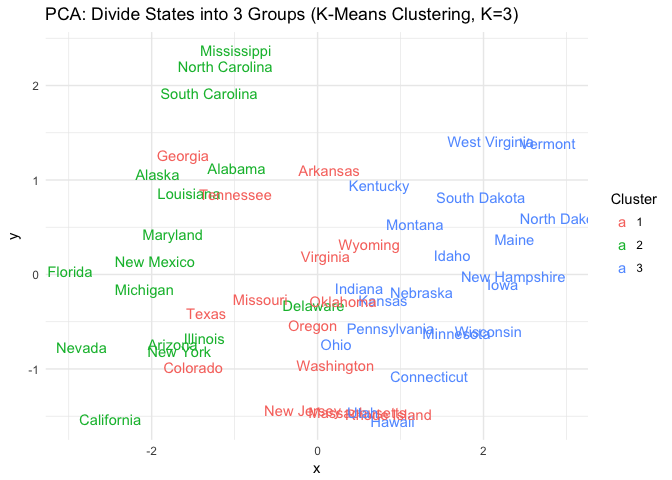
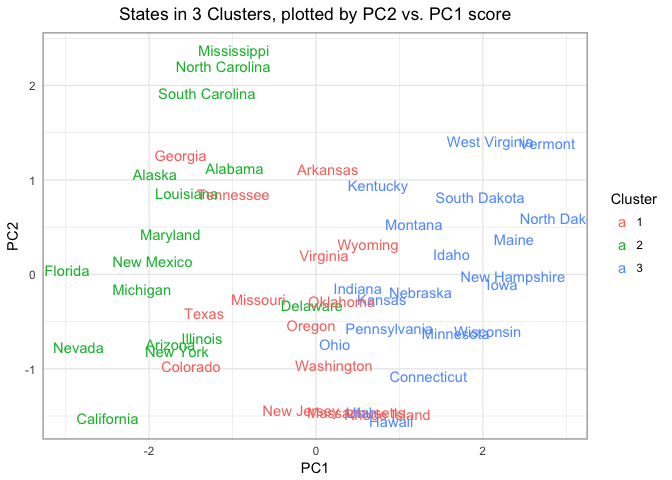
Done

diff --git a/students/Ochoa_Erin/PS9/ps9-emo.md b/students/Ochoa_Erin/PS9/ps9-emo.md
@@ -8,7 +8,7 @@ Erin M. Ochoa
     -   [Split the data into a training and test set (70/30%)](#split-the-data-into-a-training-and-test-set-7030)
     -   [Calculate the test MSE for KNN models with *K* = 5, 10, 15, …, 100, using whatever combination of variables you see fit. Which model produces the lowest test MSE?](#calculate-the-test-mse-for-knn-models-with-k-5-10-15-dots-100-using-whatever-combination-of-variables-you-see-fit.-which-model-produces-the-lowest-test-mse)
     -   [Compare the test MSE for the best KNN/wKNN model(s) to the test MSE for the equivalent linear regression, decision tree, boosting, and random forest methods using the same combination of variables as before. Which performs the best? Why do you think this method performed the best, given your knowledge of how it works?](#compare-the-test-mse-for-the-best-knnwknn-models-to-the-test-mse-for-the-equivalent-linear-regression-decision-tree-boosting-and-random-forest-methods-using-the-same-combination-of-variables-as-before.-which-performs-the-best-why-do-you-think-this-method-performed-the-best-given-your-knowledge-of-how-it-works)
--   [Voter turnout and depression \[2 points\]](#voter-turnout-and-depression-2-points)
+-   [Voter turnout and depression](#voter-turnout-and-depression)
     -   [Split the data into a training and test set (70/30).](#split-the-data-into-a-training-and-test-set-7030.)
     -   [Calculate the test error rate for KNN models with *K* = 1, 2, …, 10, using whatever combination of variables you see fit. Which model produces the lowest test MSE?](#calculate-the-test-error-rate-for-knn-models-with-k-12dots10-using-whatever-combination-of-variables-you-see-fit.-which-model-produces-the-lowest-test-mse)
     -   [Calculate the test error rate for weighted KNN models with *K* = 1, 2, …, 10 using the same combination of variables as before. Which model produces the lowest test error rate?](#calculate-the-test-error-rate-for-weighted-knn-models-with-k-12dots10-using-the-same-combination-of-variables-as-before.-which-model-produces-the-lowest-test-error-rate)
@@ -216,6 +216,8 @@ fem_w_knn = data_frame(k = seq(5, 100, by = 5),
 
 ![](ps9-emo_files/figure-markdown_github/fem_w_knn_plot-1.png)
 
+Weighted KNN produces the lowest MSE, just below 440 for 90 &lt; K &lt;= 100.
+
 #### Compare the test MSE for the best KNN/wKNN model(s) to the test MSE for the equivalent linear regression, decision tree, boosting, and random forest methods using the same combination of variables as before. Which performs the best? Why do you think this method performed the best, given your knowledge of how it works?
 
 ``` r
@@ -333,19 +335,8 @@ mse_fem_rf = mse(fem_rf, fem_test30)
 
 Boosting with a depth of 4 produces the lowest MSE (431.643). This is because this boosted model relies on trees with four splits, representing the complex relationship between the predictor variables and the outcome.
 
-Voter turnout and depression \[2 points\]
-=========================================
-
-The 1998 General Social Survey included several questions about the respondent's mental health. `mental_health.csv` reports several important variables from this survey.
-
--   `age` - age of the respondent
--   `educ` - Number of years of formal education completed by the respondent
--   `black` - 1 if the respondent is black, 0 otherwise
--   `female` - 1 if the respondent is female, 0 if male
--   `married` - 1 if the respondent is currently married, 0 otherwise
--   `inc10` - Family income, in $10,000s
-
-Estimate a series of models explaining/predicting voter turnout.
+Voter turnout and depression
+============================
 
 #### Split the data into a training and test set (70/30).
 
@@ -375,15 +366,22 @@ mh_knn = data_frame(k = 1:10,
                     mse_train = map_dbl(knn_train, ~ mean(mh_test30$vote96 != .)),
                     mse_test = map_dbl(knn_test, ~ mean(mh_test30$vote96 != .)))
 
-ggplot(mh_knn, aes(k, mse_test)) +
-  geom_line() +
+ggplot(mh_knn, aes(k, mse_test)) + 
+  geom_line(color='deeppink',size=1.5) +
+  geom_point(color='darkturquoise', size=2) +
   labs(x = "K Nearest Neighbors",
        y = "MSE",
        title = "MSE for K Nearest Neigbors",
-       subtitle = "Voting Behavior (1996) Based on Age, Income, Education, & Depression Index Score")
+       subtitle = "Voting Behavior (1996) Based on Age, Income, Education, & Depression Index Score") +
+       theme(plot.title = element_text(hjust = 0.5), plot.subtitle = element_text(hjust = 0.5),
+             panel.border = element_rect(linetype = "solid", color = "grey70", fill=NA, size=1.1)) +
+       scale_x_continuous(breaks = seq(0,10,by=2)) +
+       scale_y_continuous(breaks = seq(0,.3,by=.05))
 ```
 
 ![](ps9-emo_files/figure-markdown_github/mh_knn-1.png)
+
+The K=1 model produces the lowest MSE (0). This is because, of course, for each observation, its nearest neighbor is itself. The next lowest MSE is 0.166, for K=3.
 
 #### Calculate the test error rate for weighted KNN models with *K* = 1, 2, …, 10 using the same combination of variables as before. Which model produces the lowest test error rate?
 
@@ -399,19 +397,24 @@ mh_wknn_error = mh_wknn %>%
                 left_join(mh_knn, by = as.factor("k")) %>%
                 select(k, mse_test_wknn, mse_test) %>%
                 gather(method, mse, -k) %>%
-                mutate(method = factor(method, levels =c("mse_test_wknn","mse_test"), labels = c("Weighted KNN","KNN")))
+                mutate(Method = factor(method, levels =c("mse_test_wknn","mse_test"), labels = c("Weighted KNN","KNN")))
 
-ggplot(mh_wknn_error,aes(k, mse, color = method)) +
+ggplot(mh_wknn_error,aes(k, mse, color = Method)) +
        geom_line() +
        geom_point() +
        labs(title = "MSE for KNN and Weighted KNN",
        subtitle = "Voting Behavior (1996) Based on Age, Income, Education, & Depression Index Score",
        x = "K",
-       y = "MSE",
-       method = NULL)
+       y = "MSE") +
+       theme(plot.title = element_text(hjust = 0.5), plot.subtitle = element_text(hjust = 0.5),
+             panel.border = element_rect(linetype = "solid", color = "grey70", fill=NA, size=1.1)) +
+       scale_x_continuous(breaks = seq(0,10,by=2)) +
+       scale_y_continuous(breaks = seq(0,.3,by=.05))
 ```
 
 ![](ps9-emo_files/figure-markdown_github/mh_wknn-1.png)
+
+Again, the model with the lowest MSE is the K=1 model with an MSE of 0.0, but this is the trivial case. The useful model with the lowest MSE is the KNN model with K=3, with an MSE of 0.166
 
 #### Compare the test error rate for the best KNN/wKNN model(s) to the test error rate for the equivalent logistic regression, decision tree, boosting, random forest, and SVM methods using the same combination of variables as before. Which performs the best? Why do you think this method performed the best, given your knowledge of how it works?
 
@@ -426,6 +429,33 @@ voted_all_accuracy = mh_test30 %>%
 
 logit_mh_error = mean(voted_all_accuracy$vote96 != voted_all_accuracy$pred)
 ```
+
+``` r
+mh_tree = tree(vote96 ~ age + inc10 + educ + mhealth_sum, data = mh_train70)
+tree_data = dendro_data(mh_tree)
+
+mse_mh_tree = mse(mh_tree,mh_test30)
+```
+
+``` r
+mh_rf = randomForest(vote96 ~ age + inc10 + educ + mhealth_sum , data = mh_train70, ntree = 500)
+
+mse_mh_rf = mse(mh_rf, mh_test30)
+```
+
+``` r
+mh_svm2 = tune(svm, vote96 ~ ., data = mh_train70,
+          kernel = "linear",
+          range = list(cost = c(.001, .01, .1, 1, 5, 10, 100)))
+
+mh_lin2 = mh_svm2$best.model
+
+mse_mh_svm = mse(mh_lin2,mh_test30)
+```
+
+![](ps9-emo_files/figure-markdown_github/mh_compare_methods_plot-1.png)
+
+Again, the model with the lowest MSE is the trivial KNN model with K=1 (and an MSE of 0). This is because in the model, each observation is its own closest neighbor. The second-best model is the KNN model with K=3 and an MSE of 0.166.
 
 Colleges
 ========
@@ -519,10 +549,14 @@ arrests_PC2 = as.data.frame(arrests_pca$x)$PC2
 Cluster = as.factor(arrests_kmeans_2$cluster)
 arrests_pca_name = data.frame(x=arrests_PC1, y=arrests_PC2, name=state_name)
 ggplot(arrests_pca_name, aes(x, y, label=name, color=Cluster)) +
-       geom_text() + labs(title = "PCA: Divide States into 2 Groups (K-Means Clustering, K=2)")
+       geom_text() + labs(x="PC1", y="PC2",title = "States in 2 Clusters, plotted by PC2 vs. PC1 score") +
+       theme(plot.title = element_text(hjust = 0.5), plot.subtitle = element_text(hjust = 0.5),
+             panel.border = element_rect(linetype = "solid", color = "grey70", fill=NA, size=1.1))
 ```
 
 ![](ps9-emo_files/figure-markdown_github/arrests_kmeans_2-1.png)
+
+The clusters seem reasonable, with the exceptions of Missouri and Delaware, and perhaps Arkansas.
 
 #### Perform *K*-means clustering with *K* = 4. Plot the observations on the first and second principal components and color-code each state based on their cluster membership. Describe your results.
 
@@ -533,10 +567,14 @@ arrests_kmeans_4 = kmeans(arrests_df, 4, nstart = 20)
 Cluster = as.factor(arrests_kmeans_4$cluster)
 
 ggplot(arrests_pca_name, aes(x, y, label=name, color=Cluster)) +
-       geom_text() + labs(title = "PCA: Divide States into 4 Groups (K-Means Clustering, K=4)")
+       geom_text() + labs(x="PC1", y="PC2",title = "States in 4 Clusters, plotted by PC2 vs. PC1 score") +
+       theme(plot.title = element_text(hjust = 0.5), plot.subtitle = element_text(hjust = 0.5),
+             panel.border = element_rect(linetype = "solid", color = "grey70", fill=NA, size=1.1))
 ```
 
 ![](ps9-emo_files/figure-markdown_github/arrests_kmeans_4-1.png)
+
+These clusters are not intuititive; there is a lot of overlap between clusters 2 & 3 and clusters 2 & 4. Delaware seems misclassified, as do Georgia, Tennessee, Colorado, Texas, Hawaii, and others.
 
 #### Perform *K*-means clustering with *K* = 3. Plot the observations on the first and second principal components and color-code each state based on their cluster membership. Describe your results.
 
@@ -547,10 +585,14 @@ arrests_kmeans_3 = kmeans(arrests_df, 3, nstart = 20)
 Cluster = as.factor(arrests_kmeans_3$cluster)
 
 ggplot(arrests_pca_name, aes(x, y, label=name, color=Cluster)) +
-       geom_text() + labs(title = "PCA: Divide States into 3 Groups (K-Means Clustering, K=3)")
+       geom_text() + labs(x="PC1", y="PC2",title = "States in 3 Clusters, plotted by PC2 vs. PC1 score") +
+       theme(plot.title = element_text(hjust = 0.5), plot.subtitle = element_text(hjust = 0.5),
+             panel.border = element_rect(linetype = "solid", color = "grey70", fill=NA, size=1.1))
 ```
 
 ![](ps9-emo_files/figure-markdown_github/arrests_kmeans_3-1.png)
+
+These clusters are not much better than the K=4 clusters; there is a lot of overlap and the divisions are not clear.
 
 #### Perform *K*-means clustering with *K* = 3 on the first two principal components score vectors, rather than the raw data. Describe your results and compare them to the clustering results with *K* = 3 based on the raw data.
 
@@ -560,11 +602,15 @@ arrests_pca_1_2 = data.frame(v1 = arrests_PC1, v2 = arrests_PC2)
 arrests_kmeans_pca3 = kmeans(arrests_pca_1_2, 3, nstart = 20)
 Cluster = as.factor(arrests_kmeans_pca3$cluster)
 
-ggplot(arrests_pca_name, aes(x, y, label=name, color=Cluster)) +
-       geom_text() + labs(title = "PCA: Divide States into 3 Groups based on PC1, PC2 (K-Means Clustering, K=2)")
+ggplot(arrests_pca_name, aes(x, y, label=name, color=Cluster)) + geom_point(aes(color=Cluster, alpha=.5)) +
+       geom_text() + labs(x="PC1", y="PC2",title = "States in 3 Clusters based on PC1 & PC2, plotted by PC2 vs. PC1 score") +
+       theme(plot.title = element_text(hjust = 0.5), plot.subtitle = element_text(hjust = 0.5),
+             panel.border = element_rect(linetype = "solid", color = "grey70", fill=NA, size=1.1))
 ```
 
 ![](ps9-emo_files/figure-markdown_github/arrests_kmeans_pca3-1.png)
+
+These clusters are very clear compared to the K=3 and K=4 plots shown earlier. The boundaries seemed a little fuzzy until we added points, which make the state names less readable, but the boundaries between clusters clearer. These are the best clusters we've seen so far.
 
 #### Using hierarchical clustering with complete linkage and Euclidean distance, cluster the states.
 
@@ -584,10 +630,10 @@ hclabs = label(hcdata) %>%
          left_join(data_frame(label = as.factor(seq.int(nrow(arrests_df))),
                    cluster = as.factor(cutree(arrests_hierarchical, h = 150))))
 
-ggdendrogram(arrests_hierarchical, labels = FALSE) +
+ggdendrogram(arrests_hierarchical) +
              geom_text(data = hclabs,
-             aes(label = label, x = x, y = 0, color = cluster),
-                 vjust = .5, angle = 90) +
+             aes(label = state_name, x = x, y = 0, color = cluster),
+                 vjust = .5, hjust = 0, angle = 90) +
              geom_hline(yintercept = 150, linetype = 4, color = 'deeppink', size=2) +
              theme(axis.text.x = element_blank(),
              legend.position = "none")
@@ -595,13 +641,22 @@ ggdendrogram(arrests_hierarchical, labels = FALSE) +
 
 ![](ps9-emo_files/figure-markdown_github/arrests_hierarchical_chop-1.png)
 
+The plot shows which states are in which clusters.
+
 #### Hierarchically cluster the states using complete linkage and Euclidean distance, after scaling the variables to have standard deviation 1. What effect does scaling the variables have on the hierarchical clustering obtained? In your opinion, should the variables be scaled before the inter-observation dissimilarities are computed? Provide a justification for your answer.
 
 ``` r
 scaled_arrests = scale(arrests_df)
 arrests_hierarchical_scaled = hclust(dist(scaled_arrests), method = "complete")
 
-ggdendrogram(arrests_hierarchical_scaled) + labs(title = 'Arrests:  Hierarchical Clustering, Standardized')
+ggdendrogram(arrests_hierarchical_scaled) + geom_text(data = hclabs,color='deeppink',
+             aes(label = state_name, x = x, y = 0),
+                 vjust = .5, hjust = 0, angle = 90) +
+            labs(title = 'Arrests:  Hierarchical Clustering, Standardized')
 ```
 
 ![](ps9-emo_files/figure-markdown_github/arrests_hierarchical_scaled-1.png)
+
+We can't cut this tree into three clusters; we can cut it into two or four clusters, but not three. This changes the distribution of states across clusters.
+
+Based on K-means clustering using PC1 & PC2, we found that the states clustered very well into three groups. Given that result, it seems like the better approach here is to not scale the data before applying hierarchical clustering. However, we do not wish to proclaim that one should never take such an approach.
